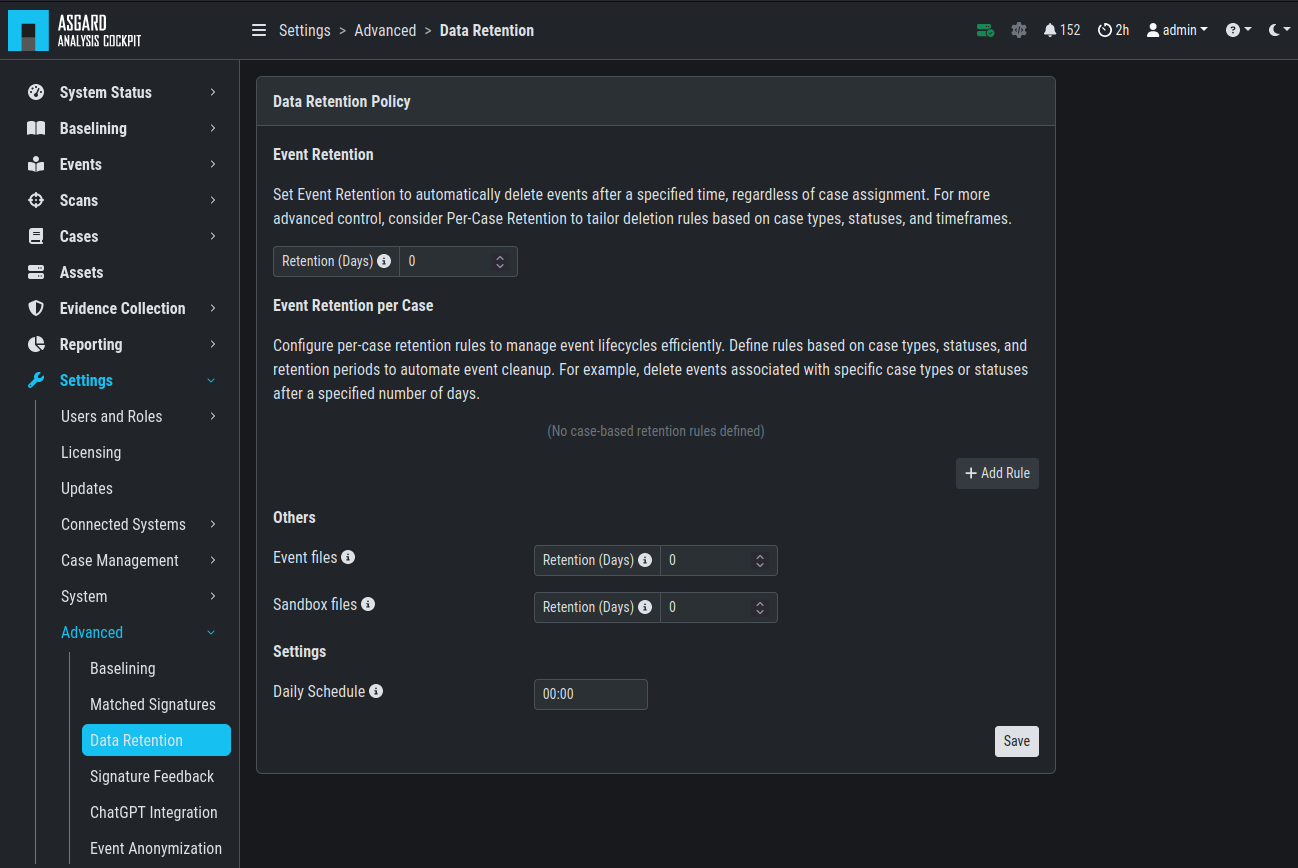
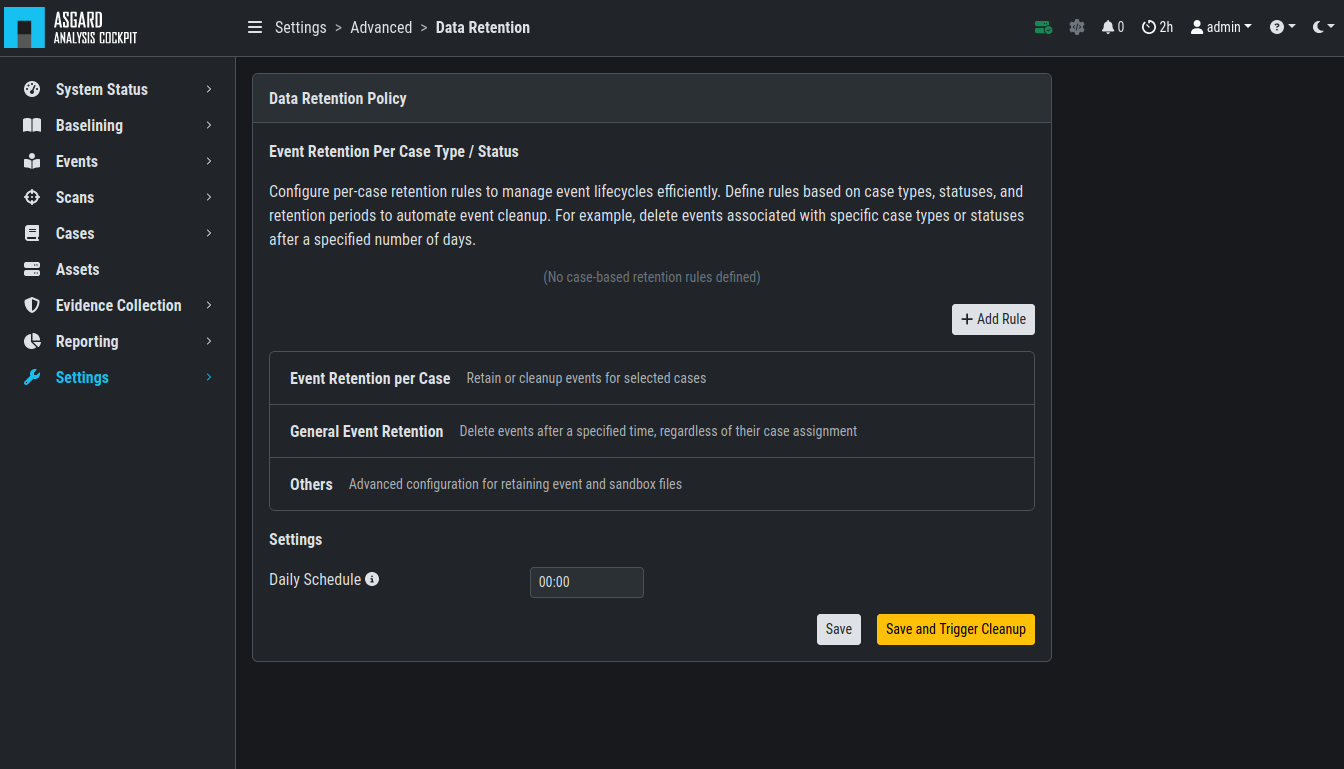
chore: add more information to data retention

diff --git a/maintenance/retention.rst b/maintenance/retention.rst
@@ -3,11 +3,13 @@
 Data Retention
 --------------
 
-You can configure a Data Retention Policy for your Analysis Cockpit.
+You can configure the Data Retention Policy for your Analysis Cockpit.
 This will delete old events from the database, based on the retention
-policy you have configured. This is useful to keep the database size
+policy rules you have defined. This is useful to keep the database size
 manageable and to keep the performance of the Analysis Cockpit at a
-reasonable level.
+reasonable level. Additionally, raw data on disk and sandbox files can
+also be deleted with the Data Retention Policy, which can help you to
+manage your disk space usage.
 
 The Data Retention Policy is configured in ``Settings`` > ``Advanced`` >
 ``Data Retention``.
@@ -19,4 +21,56 @@ The Data Retention Policy is configured in ``Settings`` > ``Advanced`` >
 
 .. hint::
    The default setting is to keep all events indefinitely. If you want to
-   delete old events, you need to configure a Data Retention Policy.
+   delete old events automatically, you need to configure a Data Retention
+   Policy.
+
+There are multiple options within the Data Retention Policy:
+
+
+- **Event Retention per Case Type / Status** - this setting will allow you to
+  set a different retention period rule for each case type and status. This is
+  useful if you have different retention requirements for different case types
+  and statuses. You can create multiple rules for different case types and case
+  statuses. This policy will only apply to cases which have the "default" retention
+  period set (see next option).
+
+  .. figure:: ../images/cockpit_data-retention-per-case-type-status.png
+      :alt: Data Retention - Case Type / Status
+
+      Data Retention - Case Type / Status
+- **Event Retention per Case** - this setting will allow you to set a
+  different retention period rule for each case. This is useful if you have
+  different retention requirements for different cases. This value takes
+  presedence over the **Event Retention per Case Type / Status**. You can
+  choose from the following options:
+
+  - **Default** - uses retention period from the General Event Retention setting.
+  - **Indefinite** - keeps all events indefinitely.
+  - **Custom** - allows you to specify a custom retention period in days.
+
+   .. figure:: ../images/cockpit_data-retention-per-case.png
+         :alt: Data Retention - Case
+   
+         Data Retention - Case
+
+- **General Event Retention** - this setting will delete events older than the
+  specified number of days. For example, if you set this to 30 days, all
+  events older than 30 days will be deleted from your Analysis Cockpit.
+  Raw data on disk will not be deleted. The default setting is to keep all
+  events indefinitely. We reccomend setting to setting this to a value to
+  a higher value than any of the other retention settings. The reason for this
+  is that this setting is taking presedence over the other settings. Please
+  use this option with caution.
+
+  .. figure:: ../images/cockpit_data-retention-general.png
+      :alt: Data Retention - General
+
+      Data Retention - General
+
+- **Others** - this deletes raw data on disk and sandbox files older than
+  the specified number of days. Default value: 0 for both.
+
+  .. figure:: ../images/cockpit_data-retention-other.png
+      :alt: Data Retention - Others
+
+      Data Retention - Others
